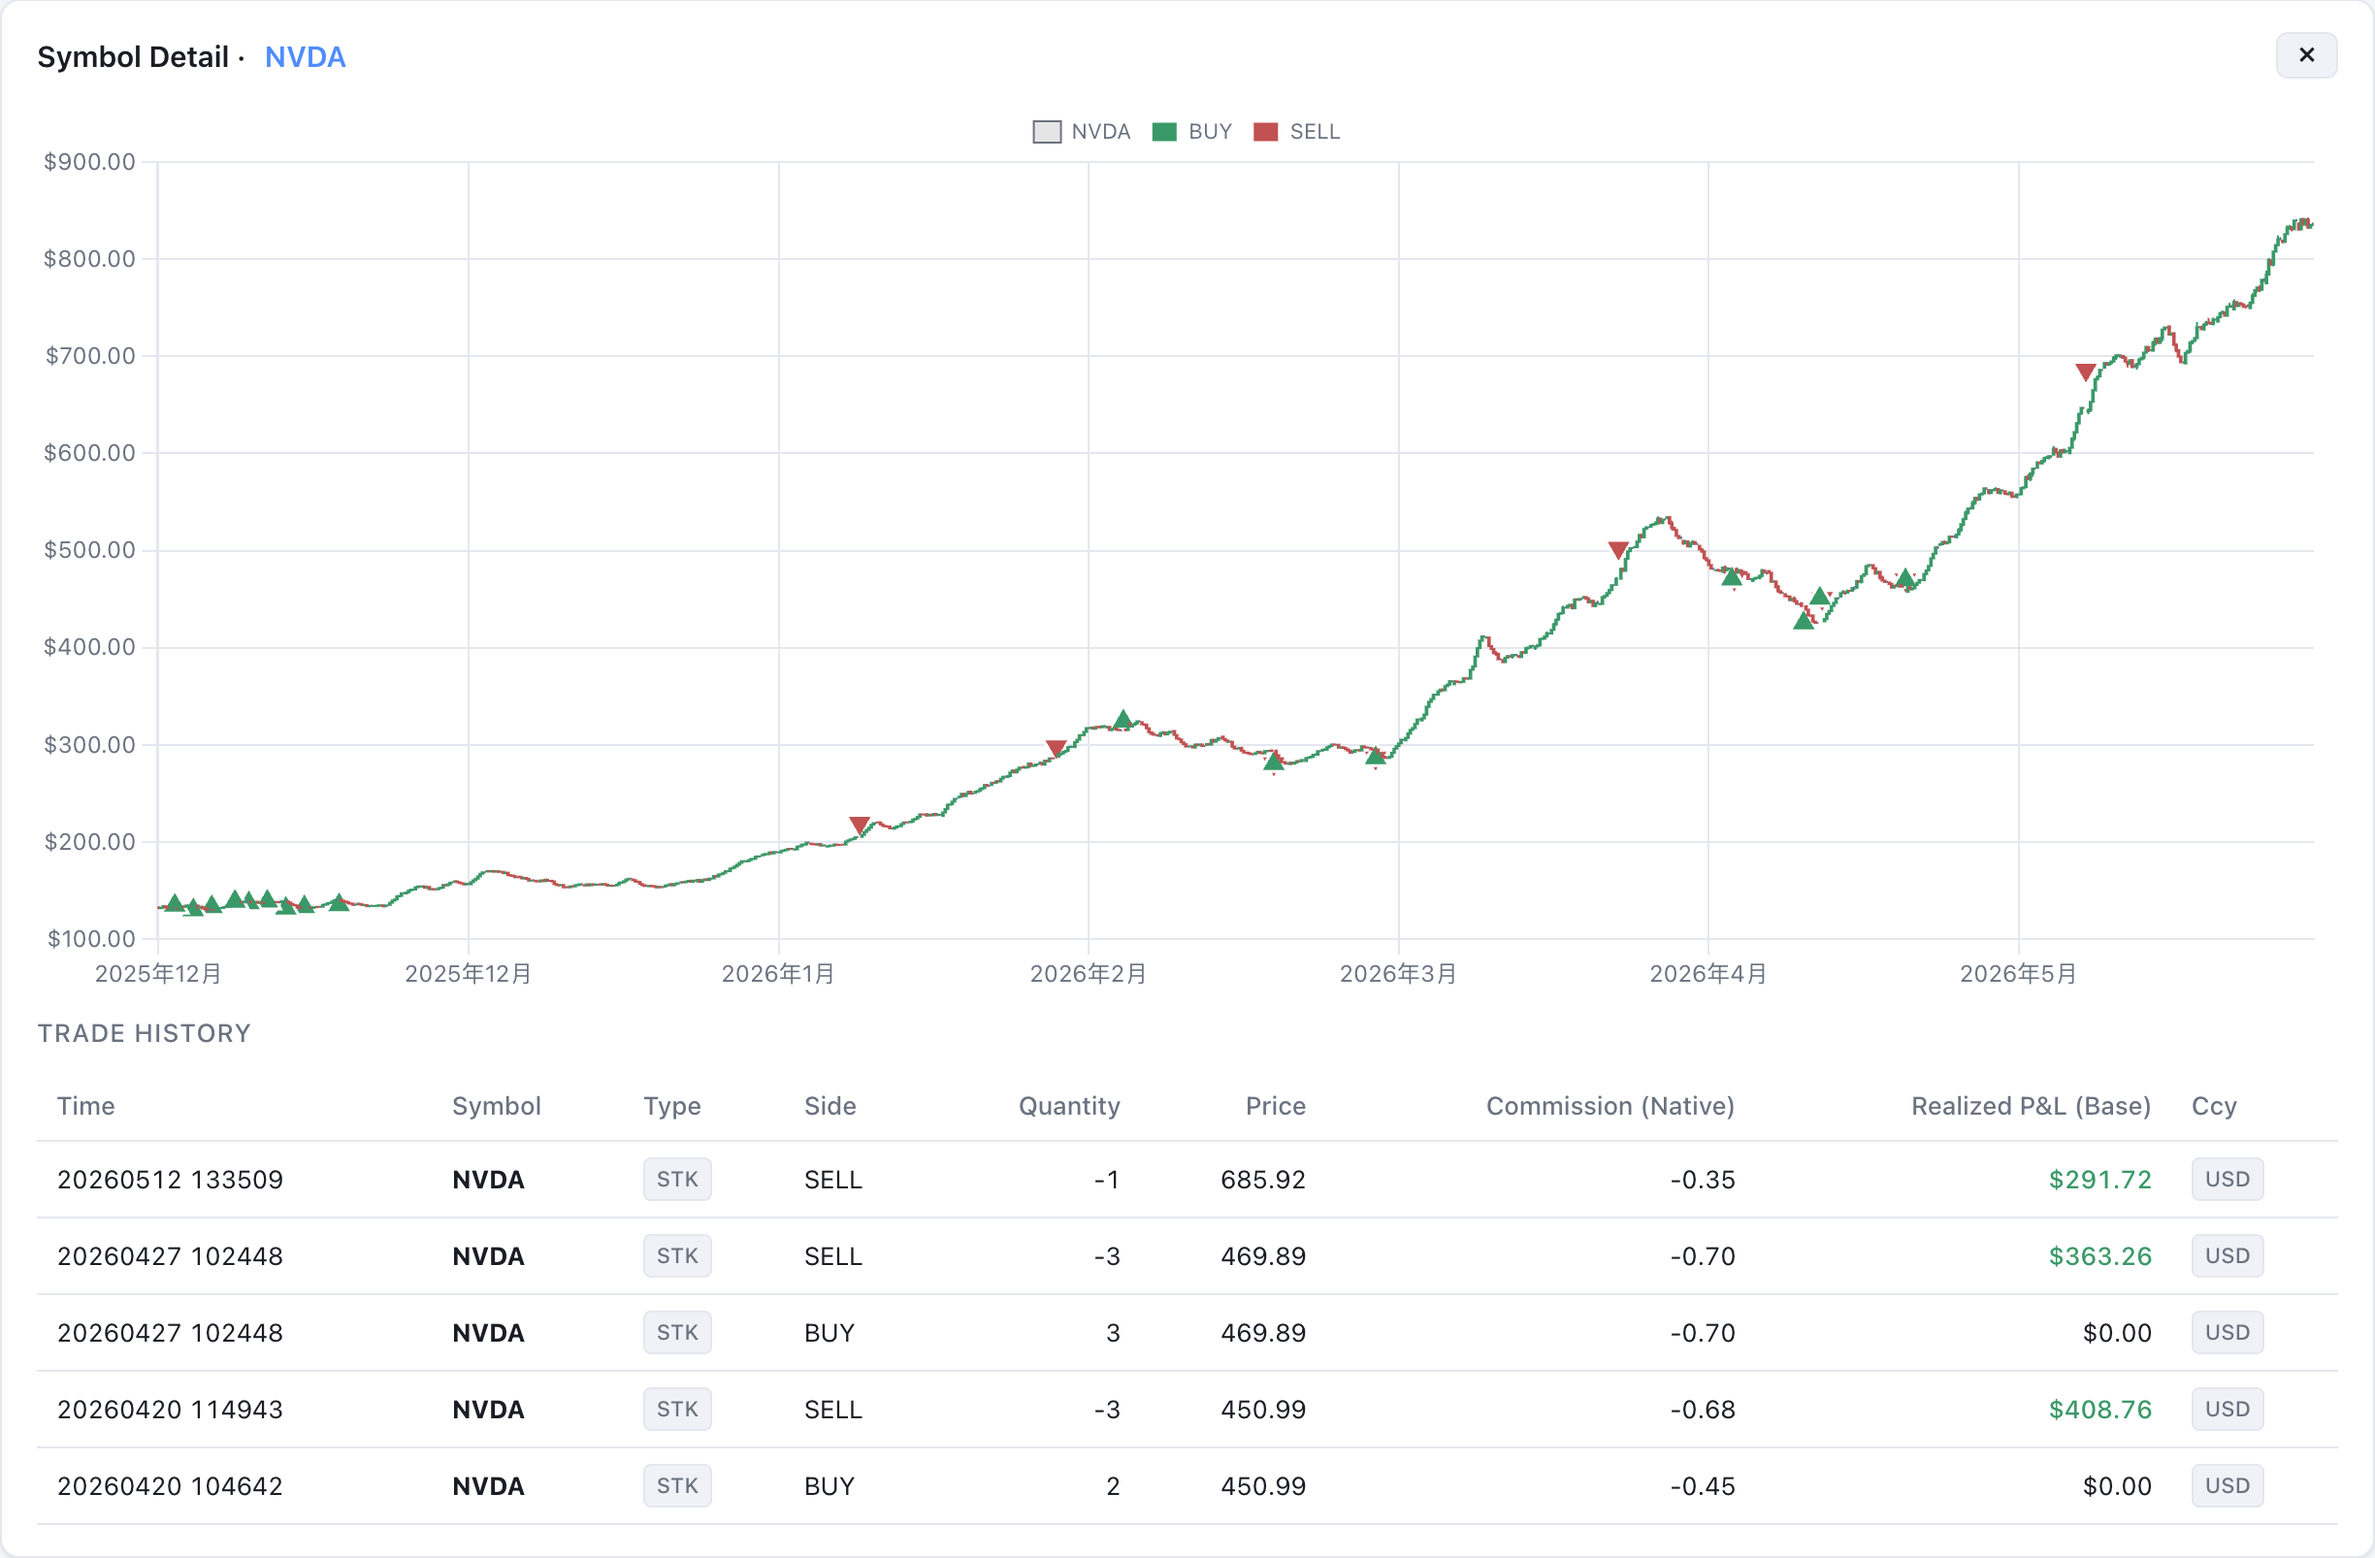
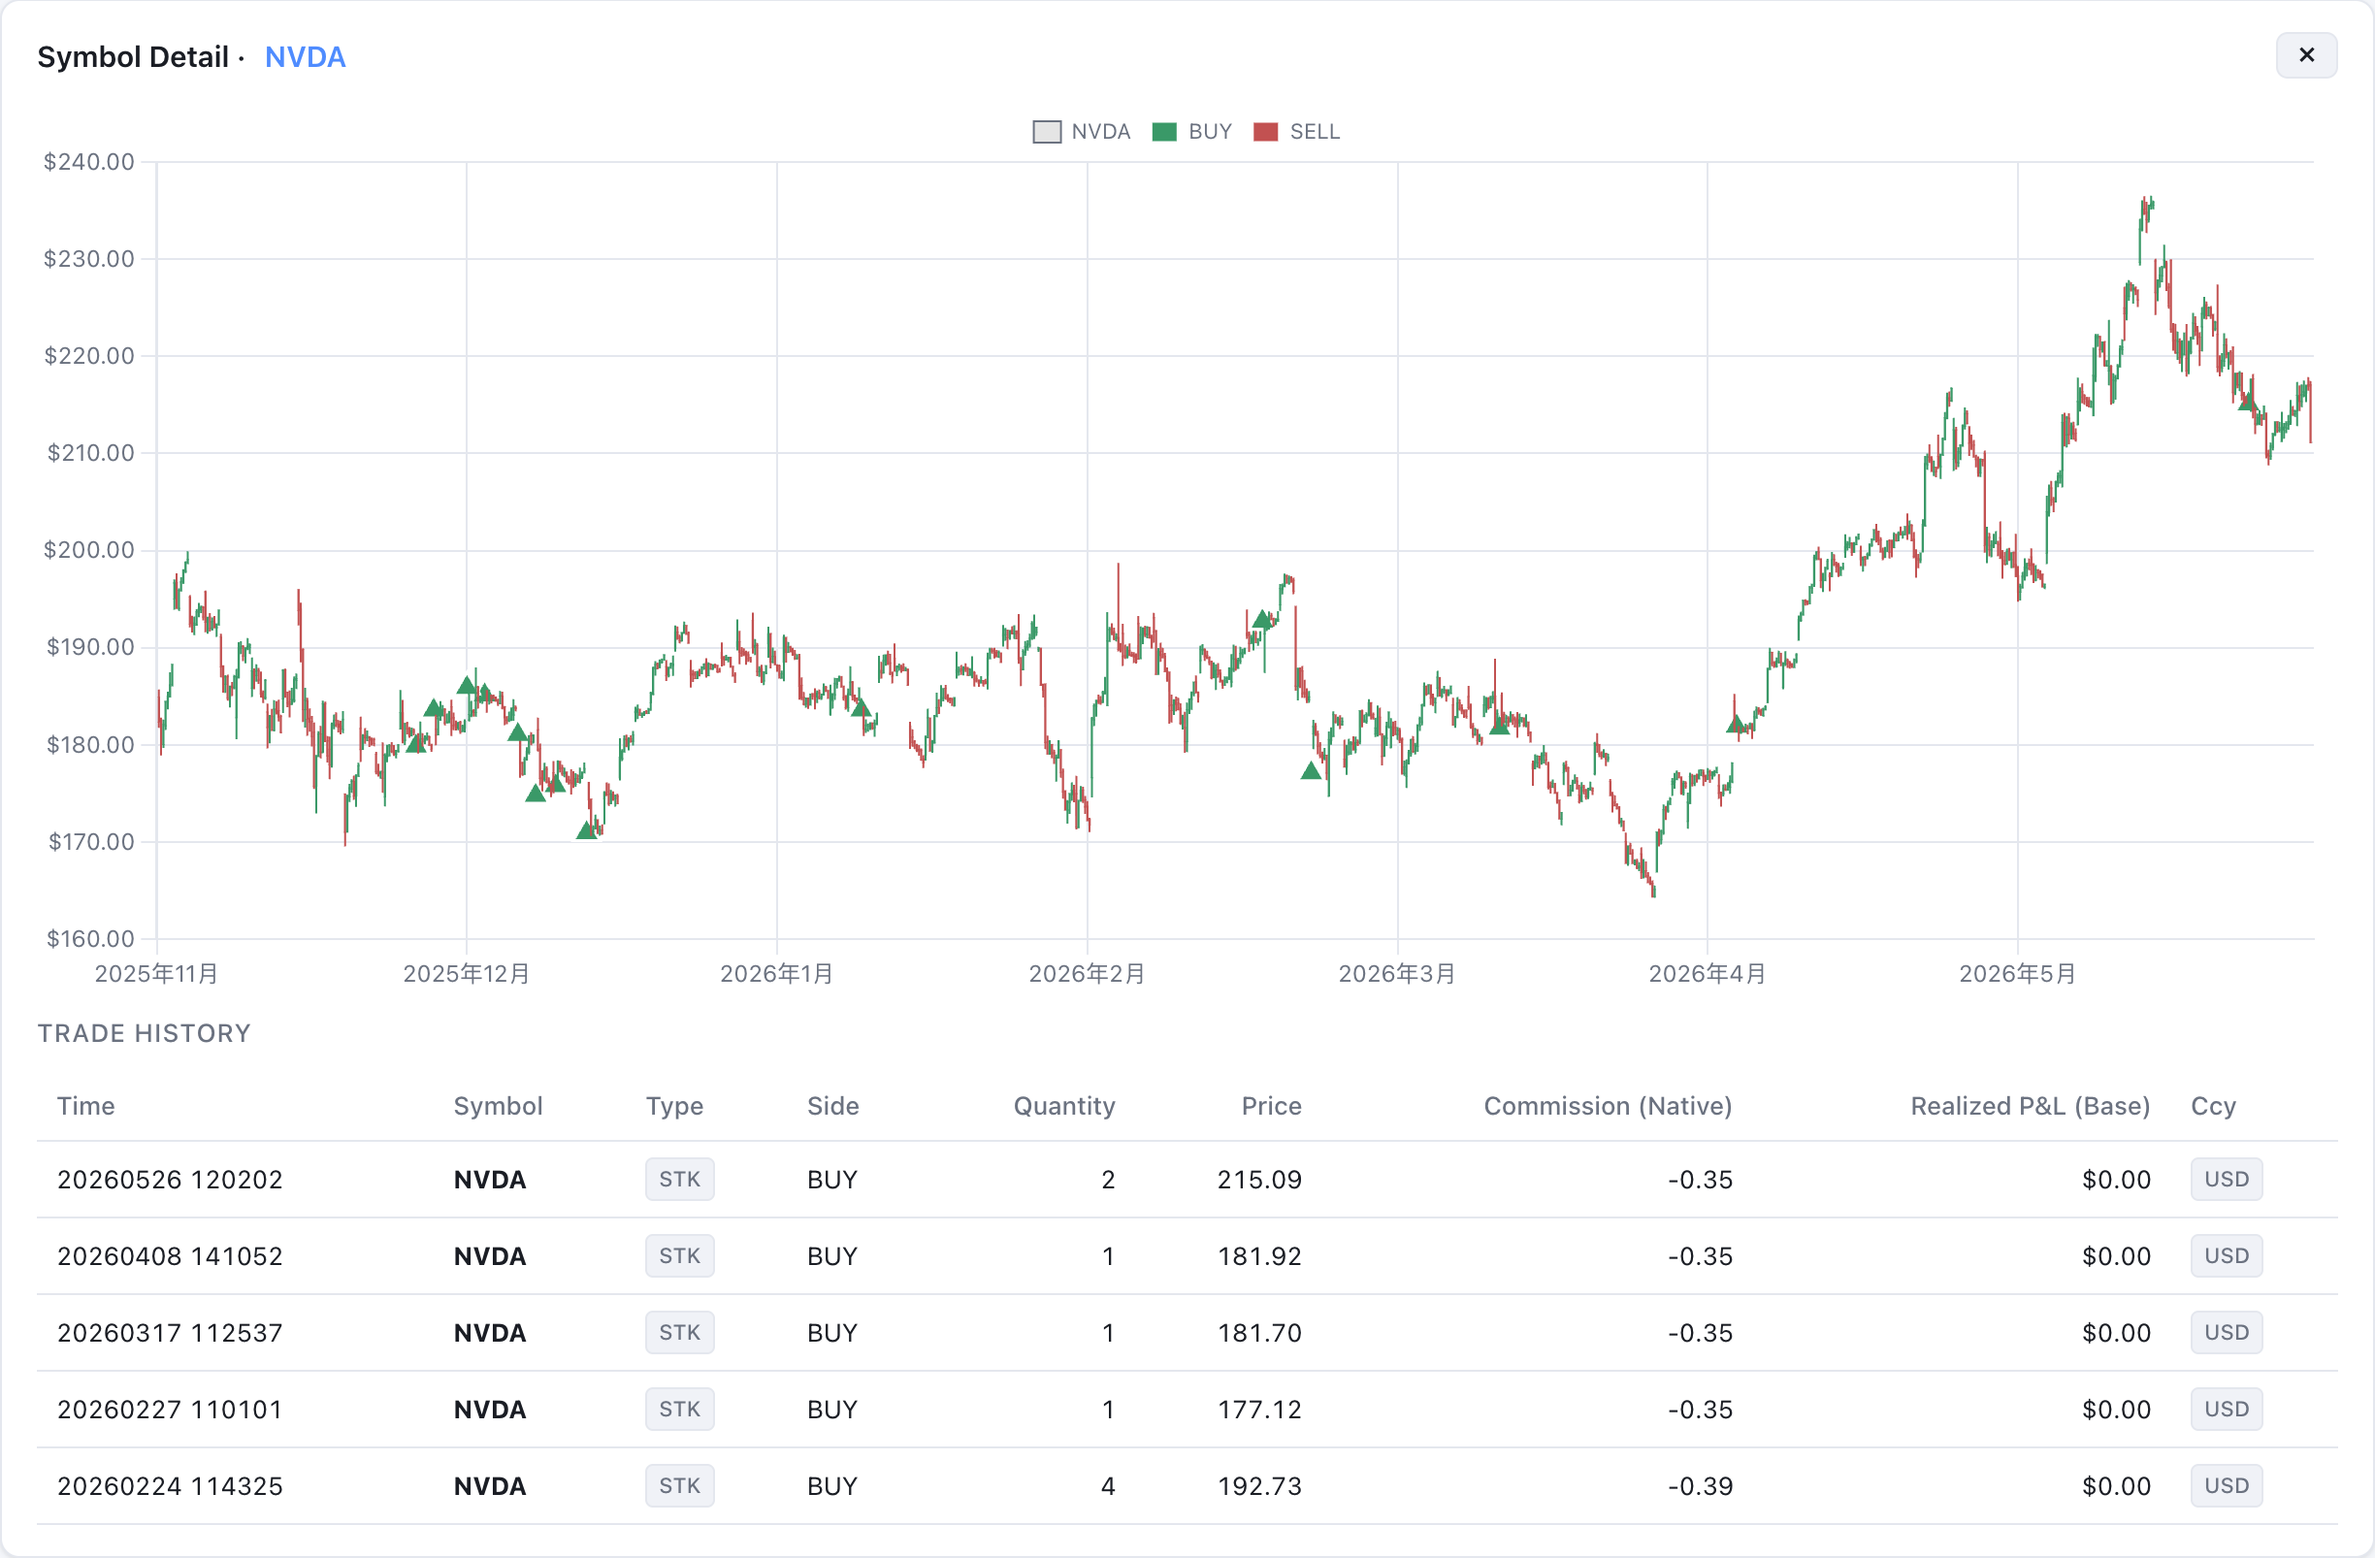
Rebuild demo screenshots on real Yahoo prices
The demo portfolio is now driven by real Yahoo Finance prices instead of a
synthetic price model: real daily marks, real trade fills, and real
candlesticks. Real ticker names now show their real price history (e.g.
NVDA's actual ~$180->$211 path), so nothing is misleading.

- Re-captured all 8 screenshots against the real-price data
- Callout/captions updated to state prices are real Yahoo data while the
  holdings/trades remain an illustrative demo portfolio

diff --git a/README.md b/README.md
@@ -8,8 +8,9 @@ interactive dashboard served on `localhost`.
 Everything — data, analysis, dashboard — stays on your machine. The HTTP server
 binds to `127.0.0.1` only.
 
-> 📊 **The screenshots below use anonymized demo data, not a real account.** All
-> figures are generated for illustration only — not investment advice.
+> 📊 **The screenshots below show a demo portfolio, not a real account** — the
+> holdings, share counts and trades are illustrative (not investment advice).
+> **Prices are real Yahoo Finance market data**, so each ticker shows its real history.
 
 ## Features
 
@@ -45,12 +46,12 @@ binds to `127.0.0.1` only.
   - Full position list **for that date** (same columns as Positions tab)
 
 ![Daily P&L date drill-through — demo data](docs/screenshots/daily_detail.png)
-<sub>↑ Demo data. Clicking a date expands that day's snapshot — KPIs, sector pie, and the positions held on that exact date (list truncated here).</sub>
+<sub>↑ Demo portfolio. Clicking a date expands that day's snapshot — KPIs, sector pie, and the positions held on that exact date (list truncated here).</sub>
 
 ### Positions tab
 
 ![Positions — demo data](docs/screenshots/positions.png)
-<sub>↑ Demo data. 74% invested with a positive cash buffer (no margin); top holdings shown (list truncated).</sub>
+<sub>↑ Demo portfolio at real prices. ~85% invested with a positive cash buffer (no margin); top holdings shown (list truncated).</sub>
 
 - 4 KPI cards: Total NLV / Market Value / Cash / Position % of NAV (with
   negative-cash margin warning)
@@ -65,12 +66,12 @@ binds to `127.0.0.1` only.
   - **By Sector** — merged into sectors, with sector names on slices
 
 ![Positions allocation — demo data](docs/screenshots/positions_alloc.png)
-<sub>↑ Demo data. The two doughnuts + the per-sector table (4 named sectors + Other + cash).</sub>
+<sub>↑ Demo portfolio. The two doughnuts + the per-sector table (4 named sectors + Other + cash).</sub>
 
 ### Trades tab
 
 ![Trades — demo data](docs/screenshots/trades.png)
-<sub>↑ Demo data. Filtered to the last week (the count shows N / total); note the JPY fill on 285A.T.</sub>
+<sub>↑ Demo portfolio. Filtered to the last week (the count shows N / total); note the JPY fill on 285A.T.</sub>
 
 - Time-window filter via dropdown (Last Day / Week / Month / 3 Months / YTD)
 - Category filter (All / Stocks / Options)
@@ -79,7 +80,7 @@ binds to `127.0.0.1` only.
 ### By Symbol tab
 
 ![By Symbol diverging chart — demo data](docs/screenshots/bySymbol.png)
-<sub>↑ Demo data. Realized P&L per symbol — winners extend right, the few cut losers sit left.</sub>
+<sub>↑ Demo portfolio. Realized P&L per symbol — winners extend right, the few cut losers sit left.</sub>
 
 - **Diverging Top-N chart** — gains right, losses left, sorted by impact
   (smallest loss on top, biggest loss pinned at bottom)
@@ -94,7 +95,7 @@ binds to `127.0.0.1` only.
   - Full trade history for that ticker (options auto-grouped to underlying)
 
 ![By Symbol candlestick drill-through — demo data](docs/screenshots/bySymbol_detail.png)
-<sub>↑ Demo data. Clicking a symbol opens its candlestick with your buy/sell markers + trade history (truncated here).</sub>
+<sub>↑ Demo portfolio at real prices. Clicking a symbol opens its real Yahoo candlestick with buy/sell markers + trade history (truncated here).</sub>
 
 ### Cross-cutting
 - **i18n** — English / Chinese toggle, persisted in localStorage
